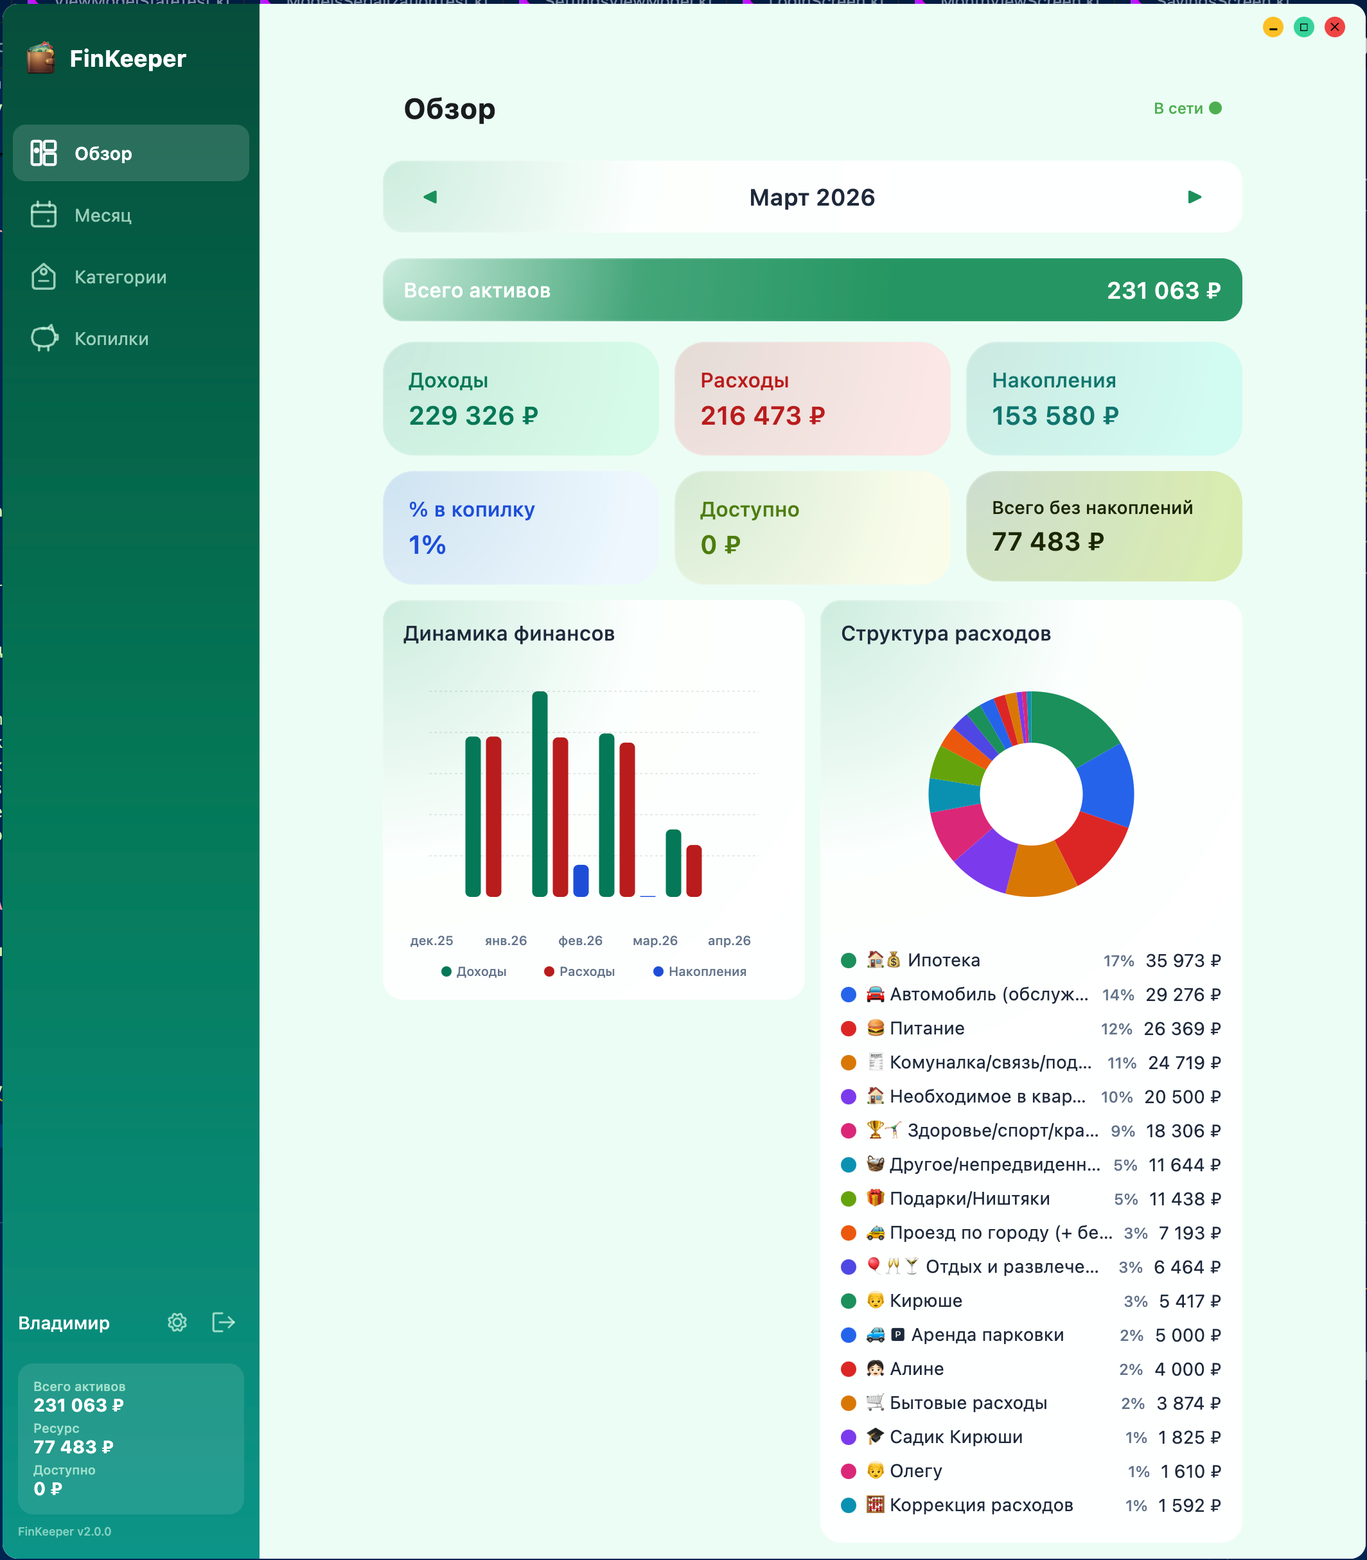
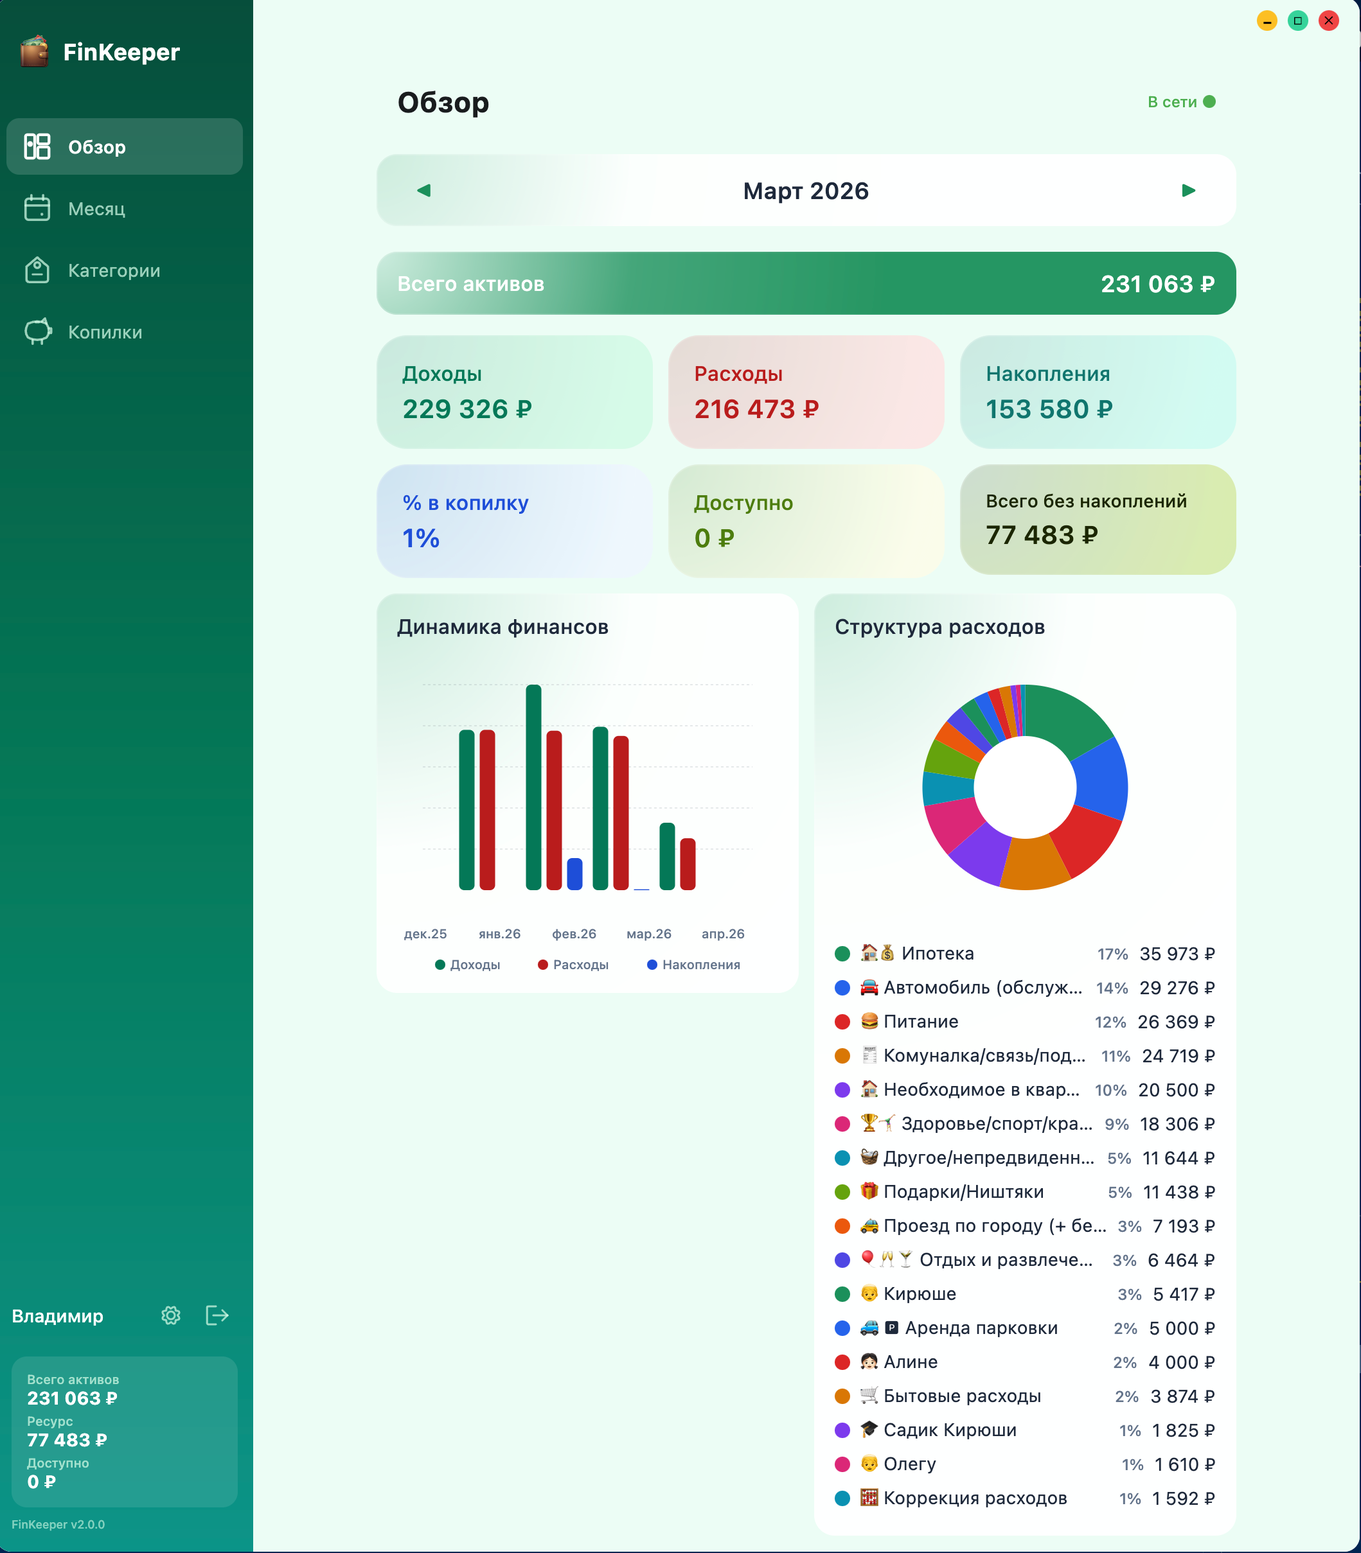
style(lending): enhance UI styling and layout adjustments
- Reordered and updated LucideIcon imports for consistency
- Improved hover effects and transitions on interactive cards
- Updated typography sizes and spacing in hero section for better responsiveness
- Adjusted web dashboard mockup sizing and image positioning
- Refined performance indicator panel styles and text translations
- Modified section paddings and margins for improved layout balance
- Streamlined platform download section layout and platform descriptions
- Enhanced layering effects and shadows on download app mockups
- Cleaned up CSS imports and fixed font import order

diff --git a/lending/src/App.tsx b/lending/src/App.tsx
@@ -2,7 +2,7 @@ import type { ReactNode } from 'react'
 import { motion, useScroll, useTransform } from 'framer-motion'
 import type { Variants } from 'framer-motion'
 import type { LucideIcon } from 'lucide-react'
-import { Wallet, PieChart, ShieldCheck, Download, Smartphone, Monitor, ChevronRight, Activity, ArrowUpRight, ArrowDownRight, Target, Globe, Lock, Zap } from 'lucide-react'
+import { Wallet, PieChart, Activity, ArrowUpRight, ArrowDownRight, Target, Globe, Zap, Monitor, Smartphone, Download, ChevronRight, ShieldCheck, Lock } from 'lucide-react'
 import imgWebDashboard from './assets/web-dashboard-dark.png'
 import imgMobileDashboard from './assets/mobile-dashboard-1.png'
 import imgDesktopApp from './assets/desktop-dashboard.png'
@@ -54,22 +54,26 @@ const PlatformLink = ({ icon: Icon, title, desc, url, primary = false }: { icon:
     href={url}
     target="_blank"
     rel="noopener noreferrer"
-    whileHover={{ scale: 1.02 }}
+    whileHover={{ scale: 1.02, y: -4 }}
     whileTap={{ scale: 0.98 }}
-    className={`flex items-center gap-5 p-4 sm:p-5 rounded-2xl border transition-all duration-300 ${
+    className={`group flex items-center gap-5 p-4 sm:p-5 rounded-2xl border transition-all duration-500 h-full ${
       primary 
-        ? 'bg-emerald-base/10 border-emerald-base/40 hover:bg-emerald-base/20 hover:border-emerald-base/60' 
-        : 'bg-glass-bg border-glass-border hover:bg-white/10 hover:border-white/20'
+        ? 'bg-emerald-base/10 border-emerald-base/30 hover:bg-emerald-base/15 hover:border-emerald-base/50 shadow-[0_20px_40px_-15px_rgba(16,185,129,0.1)] hover:shadow-[0_30px_60px_-15px_rgba(16,185,129,0.25)]' 
+        : 'bg-glass-bg border-glass-border hover:bg-white/5 hover:border-white/20 shadow-2xl shadow-black/20 hover:shadow-emerald-base/5'
     }`}
   >
-    <div className={`p-3 rounded-xl flex-shrink-0 ${primary ? 'bg-emerald-base text-main-bg' : 'bg-white/10 text-white'}`}>
-      <Icon size={24} />
+    <div className={`p-3.5 rounded-xl flex-shrink-0 transition-all duration-500 group-hover:scale-110 group-hover:rotate-3 ${
+      primary 
+        ? 'bg-gradient-to-br from-emerald-400 to-emerald-600 text-main-bg shadow-[0_0_20px_rgba(16,185,129,0.4)]' 
+        : 'bg-white/5 text-white border border-white/10 group-hover:border-emerald-base/30 group-hover:text-emerald-base'
+    }`}>
+      <Icon size={24} strokeWidth={primary ? 2.5 : 1.5} />
     </div>
-    <div className="flex-1">
-      <h4 className="font-display font-medium text-lg leading-tight mb-1">{title}</h4>
-      <p className="text-slate-text text-sm">{desc}</p>
+    <div className="flex-1 min-w-0">
+      <h4 className="font-display font-bold text-lg leading-tight mb-1 text-white group-hover:text-emerald-base transition-colors duration-300">{title}</h4>
+      <p className="text-slate-text/70 text-[13px] leading-snug group-hover:text-slate-text transition-colors duration-300">{desc}</p>
     </div>
-    <ChevronRight className={primary ? 'text-emerald-base' : 'text-slate-text'} size={20} />
+    <ChevronRight className={`transition-all duration-300 group-hover:translate-x-1 ${primary ? 'text-emerald-base' : 'text-slate-text/40 group-hover:text-emerald-base'}`} size={20} />
   </motion.a>
 );
 
@@ -111,7 +115,7 @@ export default function App() {
 
       <main className="relative z-10">
         {/* Hero Section */}
-        <section className="pt-32 pb-20 md:pt-40 md:pb-32 px-6 min-h-screen flex flex-col justify-center overflow-hidden relative">
+        <section className="pt-8 pb-6 md:pt-12 md:pb-8 lg:pt-14 lg:pb-10 px-6 min-h-[85vh] lg:min-h-screen flex flex-col justify-center overflow-hidden relative">
           <div className="max-w-7xl mx-auto w-full relative z-30 flex flex-col items-center text-center">
             <motion.div 
               initial="hidden"
@@ -127,15 +131,15 @@ export default function App() {
                 v2.0.0 • PRO SYSTEM
               </div>
               
-              <motion.h1 variants={fadeUpVariants} className="font-display text-5xl sm:text-7xl md:text-[90px] font-black leading-[0.9] mb-10 tracking-[-0.04em] text-white">
-                Ваши финансы. <br />
+              <motion.h1 variants={fadeUpVariants} className="font-display text-4xl sm:text-5xl md:text-5xl lg:text-6xl xl:text-[64px] font-black leading-[1.05] mb-5 md:mb-6 tracking-[-0.04em] text-white">
+                Ваши финансы <br />
                 <span className="text-transparent bg-clip-text bg-gradient-to-r from-emerald-300 via-emerald-base to-emerald-500 text-glow">
-                  В идеальном балансе.
+                  В идеальном балансе
                 </span>
               </motion.h1>
               
-              <motion.p variants={fadeUpVariants} className="text-slate-text/90 text-lg sm:text-xl font-light leading-relaxed mb-12 max-w-2xl mx-auto">
-                Интеллектуальная экосистема учета для тех, кто ценит точность и эстетику. Анализируйте потоки, планируйте бюджет и растите свой капитал на любой платформе.
+              <motion.p variants={fadeUpVariants} className="text-slate-text/90 text-base sm:text-lg font-light leading-relaxed mb-10 max-w-2xl mx-auto">
+                Ваш надежный компаньон в мире личных финансов. Отслеживайте расходы, управляйте бюджетами и достигайте целей в стильном интерфейсе. Доступно на всех ваших устройствах с мгновенной синхронизацией.
               </motion.p>
               
               <motion.div variants={fadeUpVariants} className="flex flex-wrap items-center justify-center gap-6">
@@ -153,12 +157,12 @@ export default function App() {
               initial={{ opacity: 0, y: 100 }}
               animate={{ opacity: 1, y: 0 }}
               transition={{ duration: 1.5, ease: [0.22, 1, 0.36, 1], delay: 0.5 }}
-              className="mt-24 relative w-full max-w-6xl aspect-[16/9] perspective-2000"
+              className="mt-2 md:mt-4 lg:mt-6 relative w-full max-w-4xl lg:max-w-[950px] aspect-[16/14] md:aspect-[16/16] perspective-2000"
             >
               {/* Web Dashboard Mockup */}
               <motion.div 
                 style={{ rotateX: 10, y: useTransform(scrollY, [0, 1000], [0, 150]) }}
-                className="absolute inset-x-0 top-0 mx-auto w-[90%] aspect-video glass-panel border-white/20 shadow-[0_50px_100px_-20px_rgba(0,0,0,0.9)] overflow-hidden z-10 rounded-2xl md:rounded-3xl"
+                className="absolute inset-x-0 top-0 mx-auto w-[94%] aspect-[16/14] md:aspect-[16/16] glass-panel border-white/20 shadow-[0_50px_100px_-20px_rgba(0,0,0,0.9)] overflow-hidden z-10 rounded-2xl md:rounded-3xl"
               >
                 <div className="absolute inset-0 bg-emerald-base/5 z-0" />
                 <div className="relative z-10 p-2 md:p-4 h-full flex flex-col">
@@ -168,9 +172,8 @@ export default function App() {
                       <div className="w-2 h-2 md:w-3 md:h-3 rounded-full bg-amber-500/40" />
                       <div className="w-2 h-2 md:w-3 md:h-3 rounded-full bg-emerald-base/40" />
                     </div>
-                    <div className="px-3 md:px-4 py-1 rounded-full bg-white/5 border border-white/10 text-[8px] md:text-[10px] text-white/40 font-mono uppercase tracking-widest">finkeeper.app</div>
                   </div>
-                  <img src={ASSETS.webDashboard} alt="Web System" className="w-full h-full object-cover rounded-lg md:rounded-xl shadow-2xl" />
+                  <img src={ASSETS.webDashboard} alt="Web System" className="w-full h-full object-cover object-top rounded-lg md:rounded-xl shadow-2xl" />
                 </div>
               </motion.div>
 
@@ -206,18 +209,18 @@ export default function App() {
               <motion.div 
                 animate={{ y: [0, -30, 0] }}
                 transition={{ duration: 7, repeat: Infinity, ease: "easeInOut" }}
-                className="absolute top-1/2 -right-10 md:-right-20 z-50 p-4 md:p-8 glass-panel border-emerald-base/40 shadow-[0_30px_60px_-15px_rgba(16,185,129,0.3)] backdrop-blur-3xl min-w-[200px] md:min-w-[280px]"
+                className="absolute top-1/2 -right-6 md:-right-12 z-50 p-4 md:p-6 glass-panel border-emerald-base/40 shadow-[0_30px_60px_-15px_rgba(16,185,129,0.3)] backdrop-blur-3xl min-w-[180px] md:min-w-[240px]"
               >
-                <div className="flex flex-col gap-4 md:gap-6">
+                <div className="flex flex-col gap-4 md:gap-5">
                   <div className="flex items-center justify-between">
-                    <div className="text-[8px] md:text-[10px] text-emerald-base uppercase tracking-[0.3em] font-mono font-black">Performance</div>
+                    <div className="text-[8px] md:text-[10px] text-emerald-base uppercase tracking-[0.3em] font-mono font-black">Эффективность</div>
                     <div className="w-6 h-6 md:w-8 md:h-8 rounded-full bg-emerald-base/20 flex items-center justify-center text-emerald-base border border-emerald-base/20">
                       <Activity size={14} />
                     </div>
                   </div>
                   <div className="flex flex-col">
-                    <div className="text-2xl md:text-4xl font-display font-black text-white tracking-tighter">+12.4%</div>
-                    <div className="text-[8px] md:text-[10px] text-slate-text uppercase font-mono">Monthly Growth</div>
+                    <div className="text-2xl md:text-3xl font-display font-black text-white tracking-tighter">+12.4%</div>
+                    <div className="text-[8px] md:text-[10px] text-slate-text uppercase font-mono">Прирост за месяц</div>
                   </div>
                   <div className="flex gap-1 md:gap-2 h-4 md:h-6 items-end">
                     {[30, 60, 45, 90, 65, 80, 50, 40, 70, 55, 85, 45].map((h, i) => (
@@ -250,10 +253,10 @@ export default function App() {
               whileInView="visible"
               viewport={{ once: true, margin: "-100px" }}
               variants={staggerContainer}
-              className="text-left mb-20"
+              className="text-left mb-10"
             >
-              <motion.h2 variants={fadeUpVariants} className="font-display text-4xl md:text-6xl font-bold mb-8 tracking-tight text-white">
-                Всё под <span className="text-emerald-base">контролем.</span>
+              <motion.h2 variants={fadeUpVariants} className="font-display text-4xl sm:text-5xl md:text-5xl lg:text-6xl xl:text-[64px] font-bold mb-6 tracking-tight text-white">
+                Всё под <span className="text-emerald-base text-glow">контролем</span>
               </motion.h2>
               <motion.p variants={fadeUpVariants} className="text-slate-text text-xl max-w-2xl font-light">
                 Инструменты для тех, кто ценит точность и удобство. Профессиональная аналитика в интуитивном формате.
@@ -481,22 +484,10 @@ export default function App() {
                     </p>
                   </div>
                   <div className="flex flex-col sm:flex-row gap-6">
-                    <motion.div 
-                      whileHover={{ scale: 1.02 }}
-                      className="flex gap-4 p-6 glass-panel border-white/10 bg-white/5 backdrop-blur-2xl shadow-2xl"
-                    >
-                      <div className="p-4 rounded-xl bg-emerald-base/10 text-emerald-base border border-emerald-base/20">
-                        <ShieldCheck size={40} strokeWidth={1} />
-                      </div>
-                      <div className="text-left flex flex-col justify-center">
-                        <div className="font-display text-lg mb-1 text-white">Encrypted</div>
-                        <div className="text-slate-text text-xs font-mono tracking-tighter opacity-60">RSA-4096 / SHA-256</div>
-                      </div>
-                    </motion.div>
-                    <div className="hidden lg:block relative w-56 h-36 overflow-hidden rounded-2xl border border-white/10 group-hover:border-emerald-base/20 transition-colors shadow-2xl">
-                      <div className="absolute inset-0 bg-gradient-to-br from-emerald-base/20 to-transparent z-10" />
-                      <div className="absolute inset-0 flex items-center justify-center bg-black/40 backdrop-blur-sm">
-                         <Lock className="text-emerald-base" size={48} strokeWidth={1.5} />
+                    <div className="hidden lg:block relative w-56 h-36 rounded-2xl border border-white/10 group-hover:border-emerald-base/20 transition-all duration-500 shadow-2xl overflow-hidden bg-black/40 backdrop-blur-md isolate">
+                      <div className="absolute inset-0 bg-gradient-to-br from-emerald-base/20 to-transparent z-10 pointer-events-none" />
+                      <div className="absolute inset-0 flex items-center justify-center z-0">
+                         <ShieldCheck className="text-emerald-base" size={48} strokeWidth={1.5} />
                       </div>
                       <div className="absolute bottom-4 left-4 right-4 h-1.5 bg-white/5 rounded-full overflow-hidden">
                         <motion.div 
@@ -514,7 +505,7 @@ export default function App() {
         </section>
 
         {/* Download & Platforms Section */}
-        <section id="download" className="py-40 px-6 relative z-10 overflow-hidden">
+        <section id="download" className="py-24 md:py-32 lg:py-40 px-6 relative z-10 overflow-hidden">
           {/* Background Highlight */}
           <div className="absolute top-1/2 left-1/2 -translate-x-1/2 -translate-y-1/2 w-[80%] h-[80%] bg-indigo-600/5 blur-[120px] rounded-full -z-10" />
           
@@ -527,12 +518,12 @@ export default function App() {
                 viewport={{ once: true }}
                 variants={staggerContainer}
               >
-                <motion.h2 variants={fadeUpVariants} className="font-display text-4xl md:text-6xl font-bold mb-8 leading-tight text-center lg:text-left text-white">
-                  Ваши финансы — <br />
-                  <span className="text-emerald-base text-glow">на любом устройстве.</span>
+                <motion.h2 variants={fadeUpVariants} className="font-display text-4xl sm:text-5xl md:text-5xl lg:text-6xl xl:text-[64px] font-bold mb-6 md:mb-8 leading-[1.05] text-center lg:text-left text-white tracking-tight">
+                  Ваши финансы <br />
+                  <span className="text-emerald-base text-glow">на любом устройстве</span>
                 </motion.h2>
                 <motion.p variants={fadeUpVariants} className="text-slate-text text-xl mb-12 font-light leading-relaxed text-center lg:text-left max-w-xl mx-auto lg:mx-0">
-                  Мы создали FinKeeper24 так, чтобы он был доступен везде. Ваша бухгалтерия синхронизируется мгновенно между всеми вашими устройствами.
+                  Мы создали FinKeeper24 так, чтобы он был доступен везде. Ваша бухгалтерия мгновенно синхронизируется между смартфоном, планшетом и компьютером.
                 </motion.p>
                 
                 <motion.div variants={staggerContainer} className="space-y-4">
@@ -543,29 +534,17 @@ export default function App() {
                     desc="Мгновенный доступ через любой современный браузер" 
                     url="https://app.finkeeper24.ru" 
                   />
-                  <div className="grid sm:grid-cols-2 gap-4">
+                  <div className="grid sm:grid-cols-2 gap-4 items-stretch">
                     <PlatformLink 
                       icon={Smartphone} 
                       title="Android" 
-                      desc="RuStore / APK" 
+                      desc="RuStore • APK • Play Store" 
                       url="#" 
                     />
                     <PlatformLink 
                       icon={Monitor} 
-                      title="macOS" 
-                      desc="Apple Silicon / Intel" 
-                      url="#" 
-                    />
-                    <PlatformLink 
-                      icon={Monitor} 
-                      title="Windows" 
-                      desc="Desktop App" 
-                      url="#" 
-                    />
-                    <PlatformLink 
-                      icon={Monitor} 
-                      title="Linux" 
-                      desc="AppImage / Flatpak" 
+                      title="Desktop" 
+                      desc="Windows • macOS • Linux" 
                       url="#" 
                     />
                   </div>
@@ -586,10 +565,10 @@ export default function App() {
                   {/* Desktop App (Back Layer) */}
                   <motion.div
                     style={{ y: downloadY1 }}
-                    className="absolute inset-0 glass-panel border-white/10 shadow-2xl overflow-hidden rounded-2xl z-0"
+                    className="absolute inset-0 glass-panel border-white/10 shadow-[0_80px_160px_-40px_rgba(0,0,0,0.9)] overflow-hidden rounded-3xl z-0"
                   >
                     <img src={ASSETS.desktopApp} alt="Desktop App" className="w-full h-full object-cover" />
-                    <div className="absolute inset-0 bg-gradient-to-t from-black/60 via-transparent to-transparent" />
+                    <div className="absolute inset-0 bg-gradient-to-t from-black/80 via-transparent to-transparent" />
                   </motion.div>
 
                   {/* Web Dashboard (Middle Layer) */}
@@ -598,10 +577,10 @@ export default function App() {
                       x: downloadX2,
                       y: downloadY2
                     }}
-                    className="absolute top-1/4 -right-10 w-full aspect-video glass-panel border-white/20 shadow-2xl overflow-hidden rounded-xl z-10"
+                    className="absolute top-[15%] -right-12 w-[110%] aspect-video glass-panel border-white/20 shadow-[0_100px_200px_-50px_rgba(0,0,0,0.95)] overflow-hidden rounded-2xl z-10"
                   >
                     <img src={ASSETS.webDashboard} alt="Web App" className="w-full h-full object-cover" />
-                    <div className="absolute inset-0 bg-emerald-base/5" />
+                    <div className="absolute inset-0 bg-emerald-base/5 backdrop-brightness-110" />
                   </motion.div>
 
                   {/* Mobile App (Front Layer) */}

diff --git a/lending/src/index.css b/lending/src/index.css
@@ -1,6 +1,5 @@
-@import "tailwindcss";
-
 @import url('https://fonts.googleapis.com/css2?family=Plus+Jakarta+Sans:ital,wght@0,200..800;1,200..800&family=Inter:ital,opsz,wght@0,14..32,100..900;1,14..32,100..900&family=JetBrains+Mono:ital,wght@0,100..800;1,100..800&display=swap');
+@import "tailwindcss";
 
 @theme {
   --color-main-bg: #0A0F1E;
